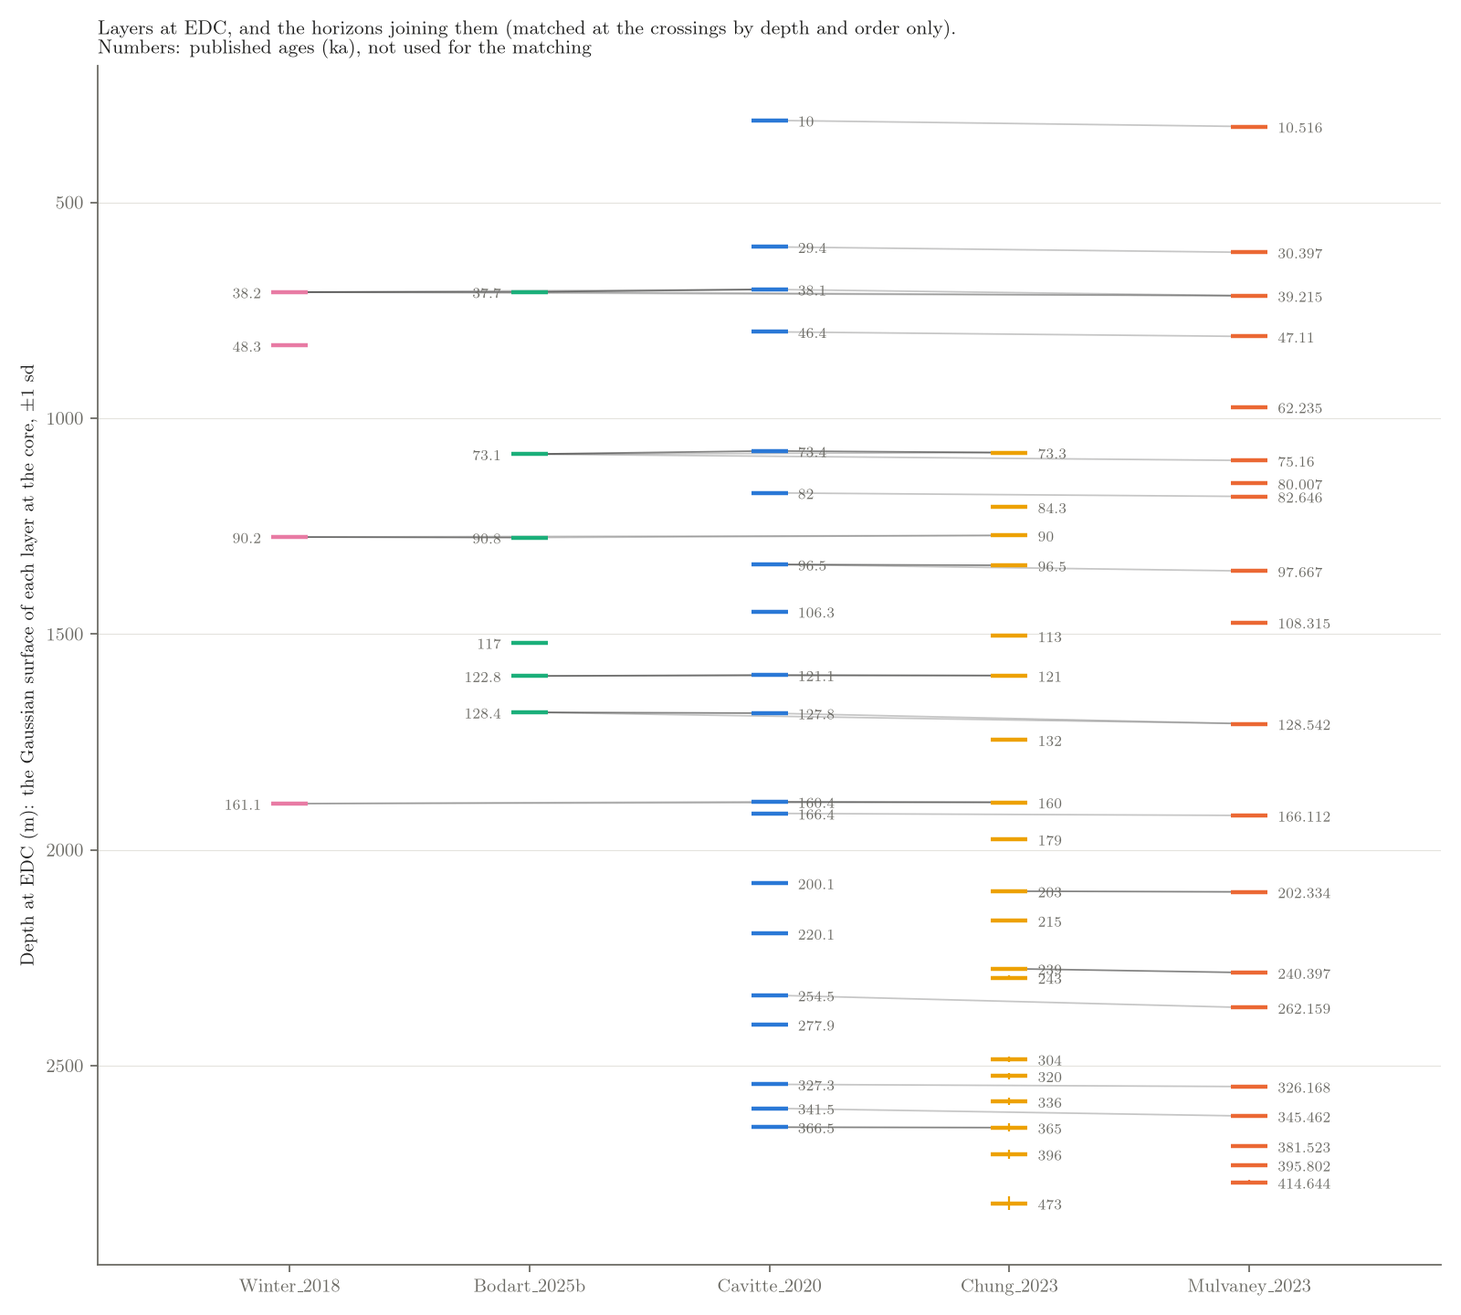
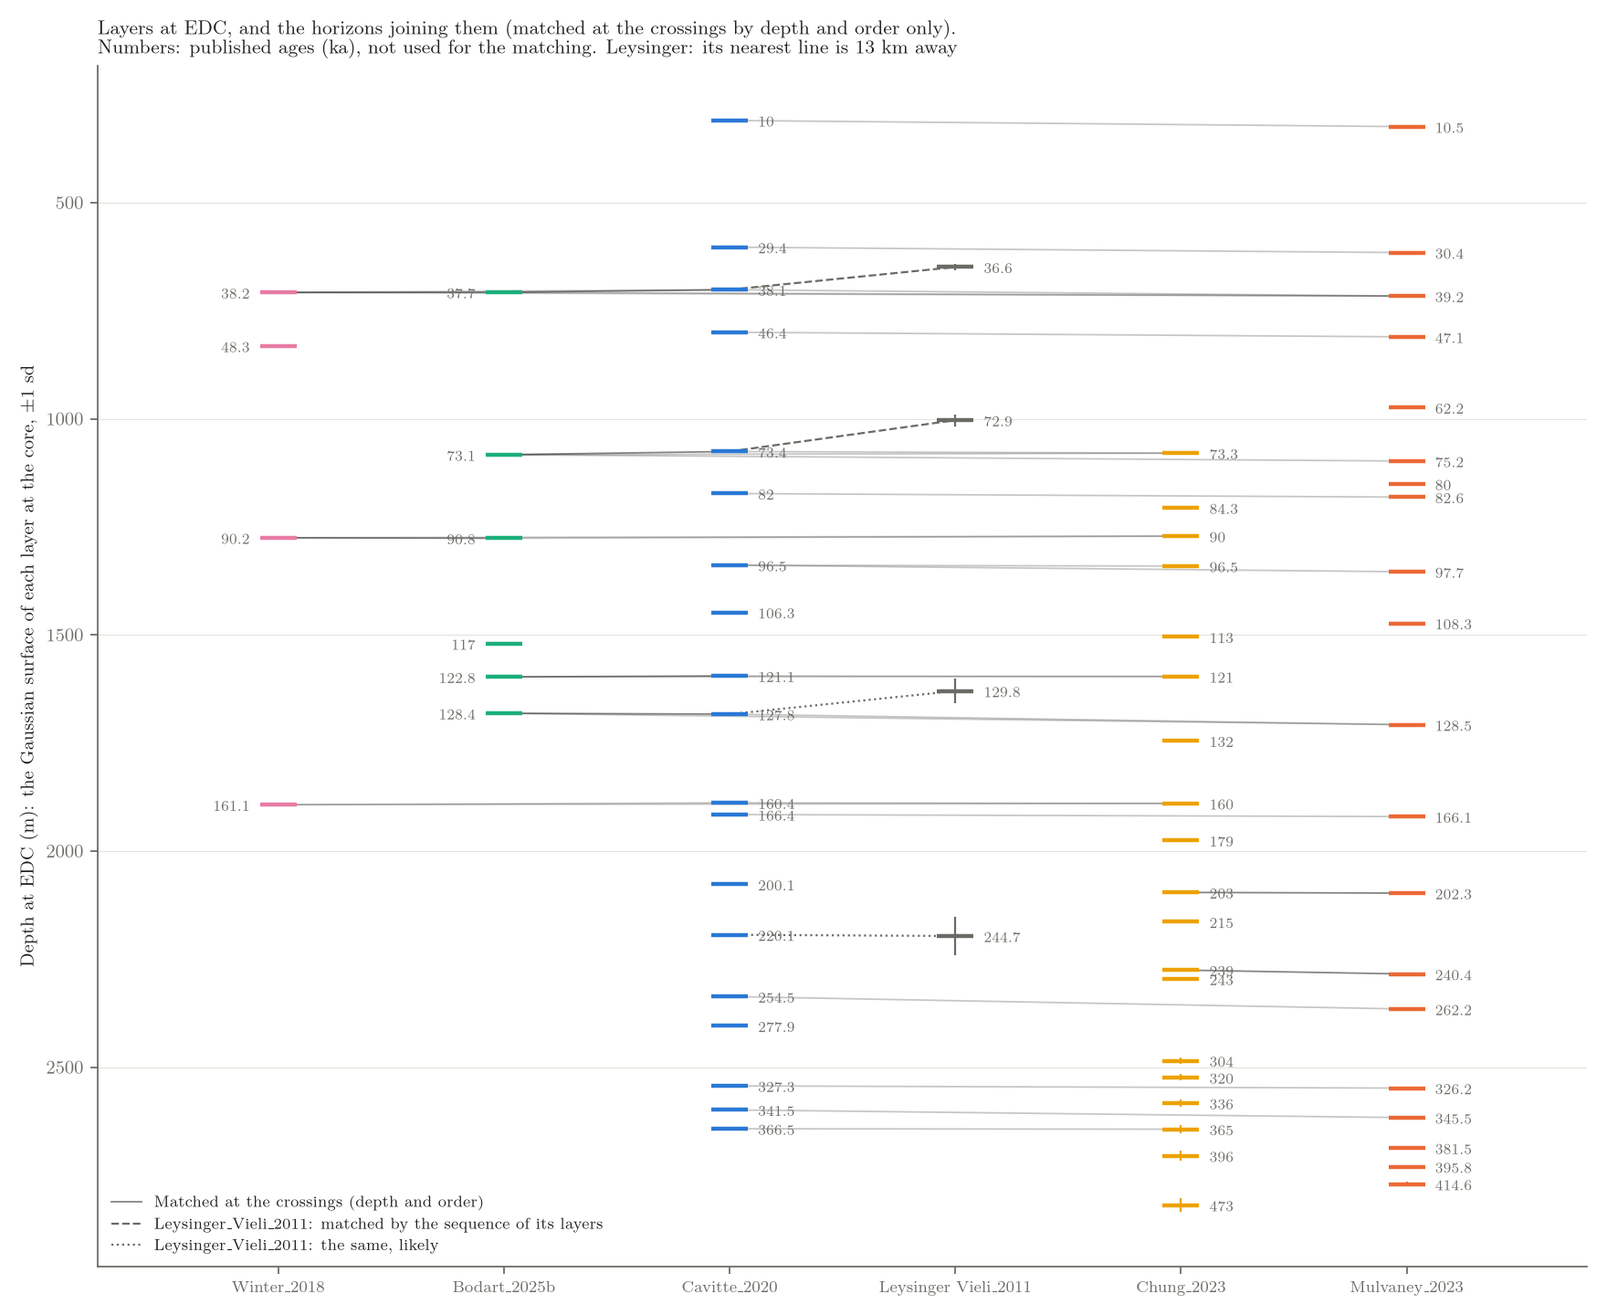
docs(harmonisation): Leysinger_Vieli_2011 in the EDC ladder figure; Mulvaney H3 and H5 reconciled (it dated its own, deeper depths); issues #18-21

diff --git a/web/processing/index.html b/web/processing/index.html
@@ -37,7 +37,7 @@
     <main class="wrap">
       <p class="back"><a href="/">← Home</a></p>
       <h2>How the data is processed</h2>
-      <p class="draft">Draft for version 2 of the database, not published yet. Built on 2026-11-21 from the build of version 2.</p>
+      <p class="draft">Draft for version 2 of the database, not published yet. Built on 2026-11-23 from the build of version 2.</p>
       <h3>Steps</h3>
       <ol>
 <li><strong>Raw files, as published.</strong> Each dataset is compiled again from the files of its
@@ -64,7 +64,7 @@ queried:
 </ol>
       <h3>Each dataset</h3>
       <p>The wave speed (m/µs) and firn correction (m) of the articles, how the layers were dated, and what the compilation does to the raw files.</p>
-      <div class="table"><table><thead><tr><th>Dataset</th><th>Platform</th><th>Wave speed</th><th>Firn correction</th><th>Dating</th><th>Compilation</th></tr></thead><tbody><tr><td><a href="https://doi.org/10.1029/2019GL086663">Ashmore et al. (2020)</a><br><code>Ashmore_2020</code></td><td>airborne</td><td>168.5</td><td>10 (yes)</td><td>Dating: modelled.</td><td>Missing values taken from the Bedmap survey points of the same traces (&lt;VAR&gt;_SOURCE, BEDMAP_POINT_DIST, attribute reconnection).</td></tr><tr><td><a href="https://doi.org/10.5194/tc-15-1719-2021">Beem et al. (2021)</a><br><code>Beem_2021</code></td><td>airborne</td><td>167</td><td>not stated</td><td>Dating: ice-core. Core: SPICEcore. Chronology: SP19.</td><td>As published.</td></tr><tr><td><a href="https://doi.org/10.1029/2020JF005927">Bodart et al. (2021)</a><br><code>Bodart_2021</code></td><td>airborne</td><td>168.5</td><td>10 (yes)</td><td>Dating: modelled, ice-core. Core: WDC. Chronology: WD2014.</td><td>Ice thickness of R2_OIB_20181022_01.csv and R3_OIB_20181022_01.csv left out: it repeats the same value at almost every point and is about 400 m below Bedmap3 (median), unlike the other files. Points of the layer files less than 1 m apart taken as the same trace: in flight 20161109_03 the files give some traces with coordinates 1 mm to 1 m apart. Missing values taken from the Bedmap survey points of the same traces (&lt;VAR&gt;_SOURCE, BEDMAP_POINT_DIST, attribute reconnection).</td></tr><tr><td><a href="https://doi.org/10.5194/tc-20-1379-2026">Bodart and Sutter (2025a)</a><br><code>Bodart_2025a</code></td><td>airborne</td><td>169.5</td><td>13 at EDML; 15.5 at Dome Fuji (yes)</td><td>Dating: ice-core. Core: EDML, [&#x27;EDML&#x27;, &#x27;Dome Fuji&#x27;]. Chronology: AICC2023, [&#x27;AICC2023&#x27;, &#x27;DFO-2006&#x27;].</td><td>As published.</td></tr><tr><td><a href="https://doi.org/10.5194/tc-20-1379-2026">Bodart and Sutter (2025b)</a><br><code>Bodart_2025b</code></td><td>airborne</td><td>168.5</td><td>14.6 at EDC; 9.5 at TALDICE (yes)</td><td>Dating: ice-core. Core: TALDICE, [&#x27;TALDICE&#x27;, &#x27;EDC&#x27;], EDC. Chronology: AICC2023.</td><td>As published.</td></tr><tr><td><a href="https://doi.org/10.5194/essd-13-4759-2021">Cavitte et al. (2020)</a><br><code>Cavitte_2020</code></td><td>airborne</td><td>168.5 (permittivity 3.17)</td><td>14.60 (NO: added by the compilation (+14.6))</td><td>Dating: ice-core, modelled. Core: EDC. Chronology: AICC2012.</td><td>Firn correction of +14.6 m added by AntADatabase (IRH_DEPTH, ICE_THK; BED_ELEV lowered by it), value of Cavitte et al. (2021). The published depths and ice thickness do not have the firn correction of Cavitte et al. (2021), which dated the IRHs at the depths + 14.6 m at EPICA Dome C. Depths interpolated across the gaps of the HiCARS lines (OIA_JKB2n_*, IRH 1-20) removed, with the picks of M. Cavitte (2025), and on all the lines the interpolated stretches of 2 km or more (depths on a straight line, second difference at most 0.1 m), but for their two ends.</td></tr><tr><td><a href="https://doi.org/10.5194/tc-17-3461-2023">Chung et al. (2023)</a><br><code>Chung_2023</code></td><td>ground-based</td><td>168.5</td><td>10 +- 3 (yes)</td><td>Dating: ice-core. Core: EDC. Chronology: AICC2012.</td><td>As published.</td></tr><tr><td><a href="https://doi.org/10.5194/tc-19-1153-2025">Franke et al. (2025)</a><br><code>Franke_2025</code></td><td>airborne</td><td>169 (permittivity 3.145-3.15)</td><td>13 (yes)</td><td>Dating: ice-core. Core: EDML. Chronology: AICC2023.</td><td>Missing values taken from the Bedmap survey points of the same traces (&lt;VAR&gt;_SOURCE, BEDMAP_POINT_DIST, attribute reconnection).</td></tr><tr><td><a href="https://doi.org/10.3189/172756405781813348">Jacobel and Welch (2005)</a><br><code>Jacobel_2005</code></td><td>ground-based</td><td>not found</td><td>not found</td><td>Dating: ice-core. Core: Byrd.</td><td>Age uncertainty of 0.5 ka from Bodart et al. (2021); not in the published files. Missing values taken from the Bedmap survey points of the same traces (&lt;VAR&gt;_SOURCE, BEDMAP_POINT_DIST, attribute reconnection).</td></tr><tr><td><a href="https://doi.org/10.1029/2010JF001785">Leysinger-Vieli et al. (2011)</a><br><code>Leysinger_Vieli_2011</code></td><td>airborne</td><td>not stated</td><td>not stated</td><td>Dating: ice-core. Core: Vostok, [&#x27;Vostok&#x27;, &#x27;EDC&#x27;], EDC. Chronology: [None, None].</td><td>The raw file has no line IDs: lines cut where consecutive points are more than 50 km apart, and named after Table 1 of Leysinger Vieli et al. (2011), which they match by length and point spacing.</td></tr><tr><td><a href="https://doi.org/10.1093/climatesystem/dzy004">Muldoon et al. (2023)</a><br><code>Muldoon_2023</code></td><td>airborne</td><td>168-169.5 (uniform prior)</td><td>from the density profile (yes)</td><td>Dating: ice-core. Core: [&#x27;WDC&#x27;, &#x27;Byrd&#x27;]. Chronology: [&#x27;WD2014&#x27;, None].</td><td>As published.</td></tr><tr><td><a href="https://doi.org/10.5194/tc-17-3461-2023">Mulvaney et al. (2023)</a><br><code>Mulvaney_2023</code></td><td>ground-based</td><td>168.5</td><td>10 +- 3 (yes)</td><td>Dating: ice-core. Core: EDC. Chronology: AICC2012.</td><td>As published.</td></tr><tr><td><a href="https://doi.org/10.1017/jog.2024.60">Sanderson et al. (2024)</a><br><code>Sanderson_2024</code></td><td>airborne</td><td>168.5</td><td>12 (yes)</td><td>Dating: ice-core. Core: [&#x27;SPICEcore&#x27;, &#x27;Vostok&#x27;, &#x27;EDC&#x27;]. Chronology: [&#x27;SP19&#x27;, &#x27;AICC2012&#x27;, &#x27;AICC2012&#x27;].</td><td>Missing values taken from the Bedmap survey points of the same traces (&lt;VAR&gt;_SOURCE, BEDMAP_POINT_DIST, attribute reconnection).</td></tr><tr><td><a href="https://doi.org/10.1029/2004GL020290">Siegert and Payne (2004)</a><br><code>Siegert_2004</code></td><td>airborne</td><td>168 (Siegert et al. 2005, for the pulse length only)</td><td>not stated</td><td>Dating: ice-core. Core: Byrd.</td><td>The raw files have no line IDs: lines named after the dataset. Age uncertainties from Ashmore et al. (2020), for all layers but the 0.8 ka one; not in the published files. Missing values taken from the Bedmap survey points of the same traces (&lt;VAR&gt;_SOURCE, BEDMAP_POINT_DIST, attribute reconnection).</td></tr><tr><td><a href="https://doi.org/10.5194/tc-17-4297-2023">Wang et al. (2023)</a><br><code>Wang_2023</code></td><td>airborne</td><td>168.5</td><td>15.5 (B53 core) (NO: raw data are travel times, converted by the compilation (wave speed and firn))</td><td>Dating: ice-core. Core: Dome Fuji. Chronology: DFO-2006.</td><td>Two-way travel times converted to depths with 0.08425 m/ns (IRH_DEPTH, ICE_THK). Firn correction of +15.5 m added by AntADatabase (IRH_DEPTH, ICE_THK), value of Wang et al. (2023). Wave speed of 168.5 m/us as in Wang et al. (2023).</td></tr><tr><td><a href="https://doi.org/10.5194/essd-11-1069-2019">Winter et al. (2018)</a><br><code>Winter_2018</code></td><td>airborne</td><td>168.5</td><td>13 (DML, Vostok); EDC from Winter et al. 2017 (yes)</td><td>Dating: ice-core. Core: [&#x27;EDC&#x27;, &#x27;Vostok&#x27;], [&#x27;EDML&#x27;, &#x27;Dome Fuji&#x27;]. Chronology: AICC2012, [&#x27;AICC2012&#x27;, &#x27;DFO-2006&#x27;].</td><td>Lines from the column Line of the published files. Missing values taken from the Bedmap survey points of the same traces (&lt;VAR&gt;_SOURCE, BEDMAP_POINT_DIST, attribute reconnection).</td></tr><tr><td><a href="https://doi.org/10.1017/jog.2025.15">Yan et al. (2025)</a><br><code>Yan_2025</code></td><td>airborne</td><td>168.5</td><td>none mentioned (no correction described: likely none)</td><td>Dating: ice-core, modelled. Core: EDC. Chronology: AICC2012.</td><td>Line IDs are the names of the raw files, without their ending _depth. Missing values taken from the Bedmap survey points of the same traces (&lt;VAR&gt;_SOURCE, BEDMAP_POINT_DIST, attribute reconnection).</td></tr></tbody></table></div>
+      <div class="table"><table><thead><tr><th>Dataset</th><th>Platform</th><th>Wave speed</th><th>Firn correction</th><th>Dating</th><th>Compilation</th></tr></thead><tbody><tr><td><a href="https://doi.org/10.1029/2019GL086663">Ashmore et al. (2020)</a><br><code>Ashmore_2020</code></td><td>airborne</td><td>168.5</td><td>10 (yes)</td><td>Dating: modelled.</td><td>Missing values taken from the Bedmap survey points of the same traces (&lt;VAR&gt;_SOURCE, BEDMAP_POINT_DIST, attribute reconnection).</td></tr><tr><td><a href="https://doi.org/10.5194/tc-15-1719-2021">Beem et al. (2021)</a><br><code>Beem_2021</code></td><td>airborne</td><td>167</td><td>not stated</td><td>Dating: ice-core. Core: SPICEcore. Chronology: SP19.</td><td>As published.</td></tr><tr><td><a href="https://doi.org/10.1029/2020JF005927">Bodart et al. (2021)</a><br><code>Bodart_2021</code></td><td>airborne</td><td>168.5</td><td>10 (yes)</td><td>Dating: modelled, ice-core. Core: WDC. Chronology: WD2014.</td><td>Ice thickness of R2_OIB_20181022_01.csv and R3_OIB_20181022_01.csv left out: it repeats the same value at almost every point and is about 400 m below Bedmap3 (median), unlike the other files. Points of the layer files less than 1 m apart taken as the same trace: in flight 20161109_03 the files give some traces with coordinates 1 mm to 1 m apart. Missing values taken from the Bedmap survey points of the same traces (&lt;VAR&gt;_SOURCE, BEDMAP_POINT_DIST, attribute reconnection).</td></tr><tr><td><a href="https://doi.org/10.5194/tc-20-1379-2026">Bodart and Sutter (2025a)</a><br><code>Bodart_2025a</code></td><td>airborne</td><td>169.5</td><td>13 at EDML; 15.5 at Dome Fuji (yes)</td><td>Dating: ice-core. Core: EDML, [&#x27;EDML&#x27;, &#x27;Dome Fuji&#x27;]. Chronology: AICC2023, [&#x27;AICC2023&#x27;, &#x27;DFO-2006&#x27;].</td><td>As published.</td></tr><tr><td><a href="https://doi.org/10.5194/tc-20-1379-2026">Bodart and Sutter (2025b)</a><br><code>Bodart_2025b</code></td><td>airborne</td><td>168.5</td><td>14.6 at EDC; 9.5 at TALDICE (yes)</td><td>Dating: ice-core. Core: TALDICE, [&#x27;TALDICE&#x27;, &#x27;EDC&#x27;], EDC. Chronology: AICC2023.</td><td>As published.</td></tr><tr><td><a href="https://doi.org/10.5194/essd-13-4759-2021">Cavitte et al. (2020)</a><br><code>Cavitte_2020</code></td><td>airborne</td><td>168.5 (permittivity 3.17)</td><td>14.60 (NO: added by the compilation (+14.6))</td><td>Dating: ice-core, modelled. Core: EDC. Chronology: AICC2012.</td><td>Firn correction of +14.6 m added by AntADatabase (IRH_DEPTH, ICE_THK; BED_ELEV lowered by it), value of Cavitte et al. (2021). The published depths and ice thickness do not have the firn correction of Cavitte et al. (2021), which dated the IRHs at the depths + 14.6 m at EPICA Dome C. Depths interpolated across the gaps of the HiCARS lines (OIA_JKB2n_*, IRH 1-20) removed, with the picks of M. Cavitte (2025), and on all the lines the interpolated stretches of 2 km or more (depths on a straight line, second difference at most 0.1 m), but for their two ends.</td></tr><tr><td><a href="https://doi.org/10.5194/tc-17-3461-2023">Chung et al. (2023)</a><br><code>Chung_2023</code></td><td>ground-based</td><td>168.5</td><td>10 +- 3 (yes)</td><td>Dating: ice-core. Core: EDC. Chronology: AICC2012.</td><td>As published.</td></tr><tr><td><a href="https://doi.org/10.5194/tc-19-1153-2025">Franke et al. (2025)</a><br><code>Franke_2025</code></td><td>airborne</td><td>169 (permittivity 3.145-3.15)</td><td>13 (yes)</td><td>Dating: ice-core. Core: EDML. Chronology: AICC2023.</td><td>Missing values taken from the Bedmap survey points of the same traces (&lt;VAR&gt;_SOURCE, BEDMAP_POINT_DIST, attribute reconnection).</td></tr><tr><td><a href="https://doi.org/10.3189/172756405781813348">Jacobel and Welch (2005)</a><br><code>Jacobel_2005</code></td><td>ground-based</td><td>not found</td><td>not found</td><td>Dating: ice-core. Core: Byrd.</td><td>Age uncertainty of 0.5 ka from Bodart et al. (2021); not in the published files. Missing values taken from the Bedmap survey points of the same traces (&lt;VAR&gt;_SOURCE, BEDMAP_POINT_DIST, attribute reconnection).</td></tr><tr><td><a href="https://doi.org/10.1029/2010JF001785">Leysinger-Vieli et al. (2011)</a><br><code>Leysinger_Vieli_2011</code></td><td>airborne</td><td>not stated</td><td>not stated</td><td>Dating: ice-core. Core: Vostok, [&#x27;Vostok&#x27;, &#x27;EDC&#x27;], EDC. Chronology: Vostok-RR2003, [&#x27;Vostok-RR2003&#x27;, &#x27;EDC3&#x27;], EDC3.</td><td>The raw file has no line IDs: lines cut where consecutive points are more than 50 km apart, and named after Table 1 of Leysinger Vieli et al. (2011), which they match by length and point spacing.</td></tr><tr><td><a href="https://doi.org/10.1093/climatesystem/dzy004">Muldoon et al. (2023)</a><br><code>Muldoon_2023</code></td><td>airborne</td><td>168-169.5 (uniform prior)</td><td>from the density profile (yes)</td><td>Dating: ice-core. Core: [&#x27;WDC&#x27;, &#x27;Byrd&#x27;]. Chronology: [&#x27;WD2014&#x27;, None].</td><td>As published.</td></tr><tr><td><a href="https://doi.org/10.5194/tc-17-3461-2023">Mulvaney et al. (2023)</a><br><code>Mulvaney_2023</code></td><td>ground-based</td><td>168.5</td><td>10 +- 3 (yes)</td><td>Dating: ice-core. Core: EDC. Chronology: AICC2012.</td><td>As published.</td></tr><tr><td><a href="https://doi.org/10.1017/jog.2024.60">Sanderson et al. (2024)</a><br><code>Sanderson_2024</code></td><td>airborne</td><td>168.5</td><td>12 (yes)</td><td>Dating: ice-core. Core: [&#x27;SPICEcore&#x27;, &#x27;Vostok&#x27;, &#x27;EDC&#x27;]. Chronology: [&#x27;SP19&#x27;, &#x27;AICC2012&#x27;, &#x27;AICC2012&#x27;].</td><td>Missing values taken from the Bedmap survey points of the same traces (&lt;VAR&gt;_SOURCE, BEDMAP_POINT_DIST, attribute reconnection).</td></tr><tr><td><a href="https://doi.org/10.1029/2004GL020290">Siegert and Payne (2004)</a><br><code>Siegert_2004</code></td><td>airborne</td><td>168 (Siegert et al. 2005, for the pulse length only)</td><td>not stated</td><td>Dating: ice-core. Core: Byrd.</td><td>The raw files have no line IDs: lines named after the dataset. Age uncertainties from Ashmore et al. (2020), for all layers but the 0.8 ka one; not in the published files. Missing values taken from the Bedmap survey points of the same traces (&lt;VAR&gt;_SOURCE, BEDMAP_POINT_DIST, attribute reconnection).</td></tr><tr><td><a href="https://doi.org/10.5194/tc-17-4297-2023">Wang et al. (2023)</a><br><code>Wang_2023</code></td><td>airborne</td><td>168.5</td><td>15.5 (B53 core) (NO: raw data are travel times, converted by the compilation (wave speed and firn))</td><td>Dating: ice-core. Core: Dome Fuji. Chronology: DFO-2006.</td><td>Two-way travel times converted to depths with 0.08425 m/ns (IRH_DEPTH, ICE_THK). Firn correction of +15.5 m added by AntADatabase (IRH_DEPTH, ICE_THK), value of Wang et al. (2023). Wave speed of 168.5 m/us as in Wang et al. (2023).</td></tr><tr><td><a href="https://doi.org/10.5194/essd-11-1069-2019">Winter et al. (2018)</a><br><code>Winter_2018</code></td><td>airborne</td><td>168.5</td><td>13 (DML, Vostok); EDC from Winter et al. 2017 (yes)</td><td>Dating: ice-core. Core: [&#x27;EDC&#x27;, &#x27;Vostok&#x27;], [&#x27;EDML&#x27;, &#x27;Dome Fuji&#x27;]. Chronology: AICC2012, [&#x27;AICC2012&#x27;, &#x27;DFO-2006&#x27;].</td><td>Lines from the column Line of the published files. Missing values taken from the Bedmap survey points of the same traces (&lt;VAR&gt;_SOURCE, BEDMAP_POINT_DIST, attribute reconnection).</td></tr><tr><td><a href="https://doi.org/10.1017/jog.2025.15">Yan et al. (2025)</a><br><code>Yan_2025</code></td><td>airborne</td><td>168.5</td><td>none mentioned (no correction described: likely none)</td><td>Dating: ice-core, modelled. Core: EDC. Chronology: AICC2012.</td><td>Line IDs are the names of the raw files, without their ending _depth. Missing values taken from the Bedmap survey points of the same traces (&lt;VAR&gt;_SOURCE, BEDMAP_POINT_DIST, attribute reconnection).</td></tr></tbody></table></div>
       <h3>Ice thickness, bed and surface from Bedmap</h3>
       
 <ul>

diff --git a/docs/harmonisation/figures/edc_horizons.py b/docs/harmonisation/figures/edc_horizons.py
@@ -18,16 +18,19 @@ import pandas as pd
 from anta_database.harmonisation.ties import OUTPUT
 
 HERE = os.path.dirname(os.path.abspath(__file__))
-ORDER = ["Winter_2018", "Bodart_2025b", "Cavitte_2020", "Chung_2023", "Mulvaney_2023"]
-COLOURS = dict(zip(["Cavitte_2020", "Mulvaney_2023", "Bodart_2025b", "Chung_2023", "Winter_2018"],
-                   ["#2a78d6", "#eb6834", "#1baf7a", "#eda100", "#e87ba4"]))
+ORDER = ["Winter_2018", "Bodart_2025b", "Cavitte_2020", "Leysinger_Vieli_2011", "Chung_2023", "Mulvaney_2023"]
 INK, MUTED, GRID = "#1f1f1e", "#6b6a64", "#e4e3dd"
+COLOURS = dict(zip(["Cavitte_2020", "Mulvaney_2023", "Bodart_2025b", "Chung_2023", "Winter_2018"],
+                   ["#2a78d6", "#eb6834", "#1baf7a", "#eda100", "#e87ba4"]), Leysinger_Vieli_2011=MUTED)
+# Leysinger_Vieli_2011 is matched to Cavitte_2020 by the sequence of its layers, not by depth (notes.md, H3): its
+# layers are 50 to 60 m shallower. IRH 2 and 4 are sure, IRH 6 and 8 likely.
+LEYSINGER = {2: (3, True), 4: (5, True), 6: (10, False), 8: (14, False)}
 plt.rcParams.update({"font.size": 9, "axes.edgecolor": MUTED, "axes.labelcolor": INK, "xtick.color": MUTED,
                      "ytick.color": MUTED, "axes.spines.top": False, "axes.spines.right": False})
 
 
 def ladder(t, m):
-    fig, ax = plt.subplots(figsize=(10, 9))
+    fig, ax = plt.subplots(figsize=(11, 9))
     col = {d: i for i, d in enumerate(ORDER)}
     for d in ORDER:
         g = t[t.dataset == d]
@@ -36,7 +39,7 @@ def ladder(t, m):
                     ecolor=COLOURS[d], elinewidth=1, zorder=3)
         side = -1 if x < 2 else 1
         for r in g.itertuples():
-            ax.annotate(f"{r.age_published:g}", (x, r.depth), xytext=(side * 14, -3), textcoords="offset points",
+            ax.annotate(f"{round(r.age_published, 1):g}", (x, r.depth), xytext=(side * 14, -3), textcoords="offset points",
                         ha="right" if side < 0 else "left", fontsize=7, color=MUTED)
     depth = t.set_index(["dataset", "irh"]).depth
     for r in m.itertuples():
@@ -45,13 +48,21 @@ def ladder(t, m):
         if za is None or zb is None:
             continue
         ax.plot([xa, xb], [za, zb], color=INK, lw=0.8, alpha=0.55 if abs(xa - xb) == 1 else 0.25, zorder=2)
-    ax.set_xticks(range(len(ORDER)), ORDER)
+    xa, xb = col["Cavitte_2020"], col["Leysinger_Vieli_2011"]
+    for ib, (ia, sure) in LEYSINGER.items():
+        ax.plot([xa, xb], [depth[("Cavitte_2020", ia)], depth[("Leysinger_Vieli_2011", ib)]], color=MUTED, lw=1,
+                ls="--" if sure else ":", zorder=2)
+    ax.plot([], [], color=INK, lw=0.8, alpha=0.55, label="Matched at the crossings (depth and order)")
+    ax.plot([], [], color=MUTED, lw=1, ls="--", label="Leysinger_Vieli_2011: matched by the sequence of its layers")
+    ax.plot([], [], color=MUTED, lw=1, ls=":", label="Leysinger_Vieli_2011: the same, likely")
+    ax.legend(loc="lower left", frameon=False, fontsize=7.5, labelcolor=INK)
+    ax.set_xticks(range(len(ORDER)), [d.replace("_Vieli", " Vieli") for d in ORDER], fontsize=8)
     ax.set_xlim(-0.8, len(ORDER) - 0.2)
     ax.invert_yaxis()
     ax.set_ylabel("Depth at EDC (m): the Gaussian surface of each layer at the core, ±1 sd")
     ax.grid(axis="y", color=GRID, lw=0.5)
     ax.set_title("Layers at EDC, and the horizons joining them (matched at the crossings by depth and order only).\n"
-                 "Numbers: published ages (ka), not used for the matching", loc="left", color=INK, fontsize=9.5)
+                 "Numbers: published ages (ka), not used for the matching. Leysinger: its nearest line is 13 km away", loc="left", color=INK, fontsize=9.5)
     fig.tight_layout()
     fig.savefig(os.path.join(HERE, "edc_horizons_ladder.png"), dpi=160)
 

diff --git a/docs/harmonisation/notes.md b/docs/harmonisation/notes.md
@@ -415,6 +415,15 @@ deeper than their usual offset, so it may be another layer about 10 m below.
 
 ![Layers at EDC and the horizons](figures/edc_horizons_ladder.png)
 
+Leysinger_Vieli_2011 is in the figure too, matched to Cavitte by the sequence of its layers (H3), not by the
+crossings: its depths at the core come from a line 13 km away (sd 8 to 44 m).
+
+**Mulvaney, H3 and H5 together (2026-11-23).** H3 reproduces Mulvaney's ages from its own depths within 3.5 m down to
+IRH 9 (98 ka), and H5 finds its layers 10.5 m deeper than Cavitte's: no contradiction. Mulvaney dated its layers at
+its own depths, which are about 10 to 15 m deeper than Cavitte's for the same reflection (at the core and at the
+crossings), so the same reflection gets an older age (39.2 against 38.1 ka, up to 262.2 against 254.5 ka). Below
+IRH 9 its ages also drift from its depths (to +29 m). Asked in anta_json #21; Winter #18, Chung #19, Bodart_2025b #20.
+
 **Depth offsets between datasets** (the second dataset deeper, m): Mulvaney − Cavitte +10.5, Bodart − Cavitte +9.2,
 Winter − Cavitte +5.2, Chung − Cavitte +1.9, and so on. They are about **constant with depth** in every pair (figure):
 a shift, from the firn correction or the pick of the surface, not a wave-speed scale. They don't follow the firn
